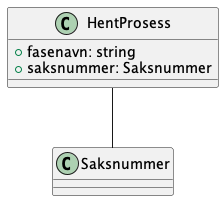
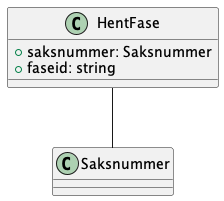
Oppdatert etter møte 11.09.2024

Changed region(s): [[0.125, 0.209, 0.9375, 0.3881], [0.2188, 0.0597, 0.7812, 0.1791]]

diff --git a/README.md b/README.md
@@ -27,6 +27,9 @@ Datamodell kan baseres på eByggesak.
 T- jener vil kun gi offentlige data, ikke skjermet data.
 - Det er viktig at vi får frikoblet faser og milepæler
 
+### Json schemas
+_Schemas er ikke oppdatert. Se klassediagram under for innspill_
+
 ### Klassediagram
 
 
@@ -39,22 +42,14 @@ T- jener vil kun gi offentlige data, ikke skjermet data.
 ![](Dokumentasjon/V1/ClassDiagrams/no.ks.fiks.saksfaser.v1.saksfaser.hent.resultat/classdiagram.svg)
 
 
-#### Melding - Hent prosess
+#### Melding - Hent saksfase
+
+Henter en enkelt saksfase basert på saksnummer og faseid.
+Faseid får man ut fra hent saksfaser tjenesten.
 
 ![](Dokumentasjon/V1/ClassDiagrams/no.ks.fiks.saksfaser.v1.prosess.hent/classdiagram.svg)
 
-#### Melding - Hent prosess resultat
+#### Melding - Hent saksfase resultat
 
-![](Dokumentasjon/V1/ClassDiagrams/no.ks.fiks.saksfaser.v1.prosess.hent.resultat/classdiagram.svg)
+![](Dokumentasjon/V1/ClassDiagrams/no.ks.fiks.saksfaser.v1.saksfase.hent.resultat/classdiagram.svg)
 
-#### Byggesak
-
-![](Dokumentasjon/V1/ClassDiagrams/no.ks.fiks.saksfaser.v1.felles.byggesak/classdiagram.svg)
-
-#### Adresse
-
-![](Dokumentasjon/V1/ClassDiagrams/no.ks.fiks.saksfaser.v1.felles.adresse/classdiagram.svg)
-
-#### Prosess
-
-![](Dokumentasjon/V1/ClassDiagrams/no.ks.fiks.saksfaser.v1.felles.prosess/classdiagram.svg)
